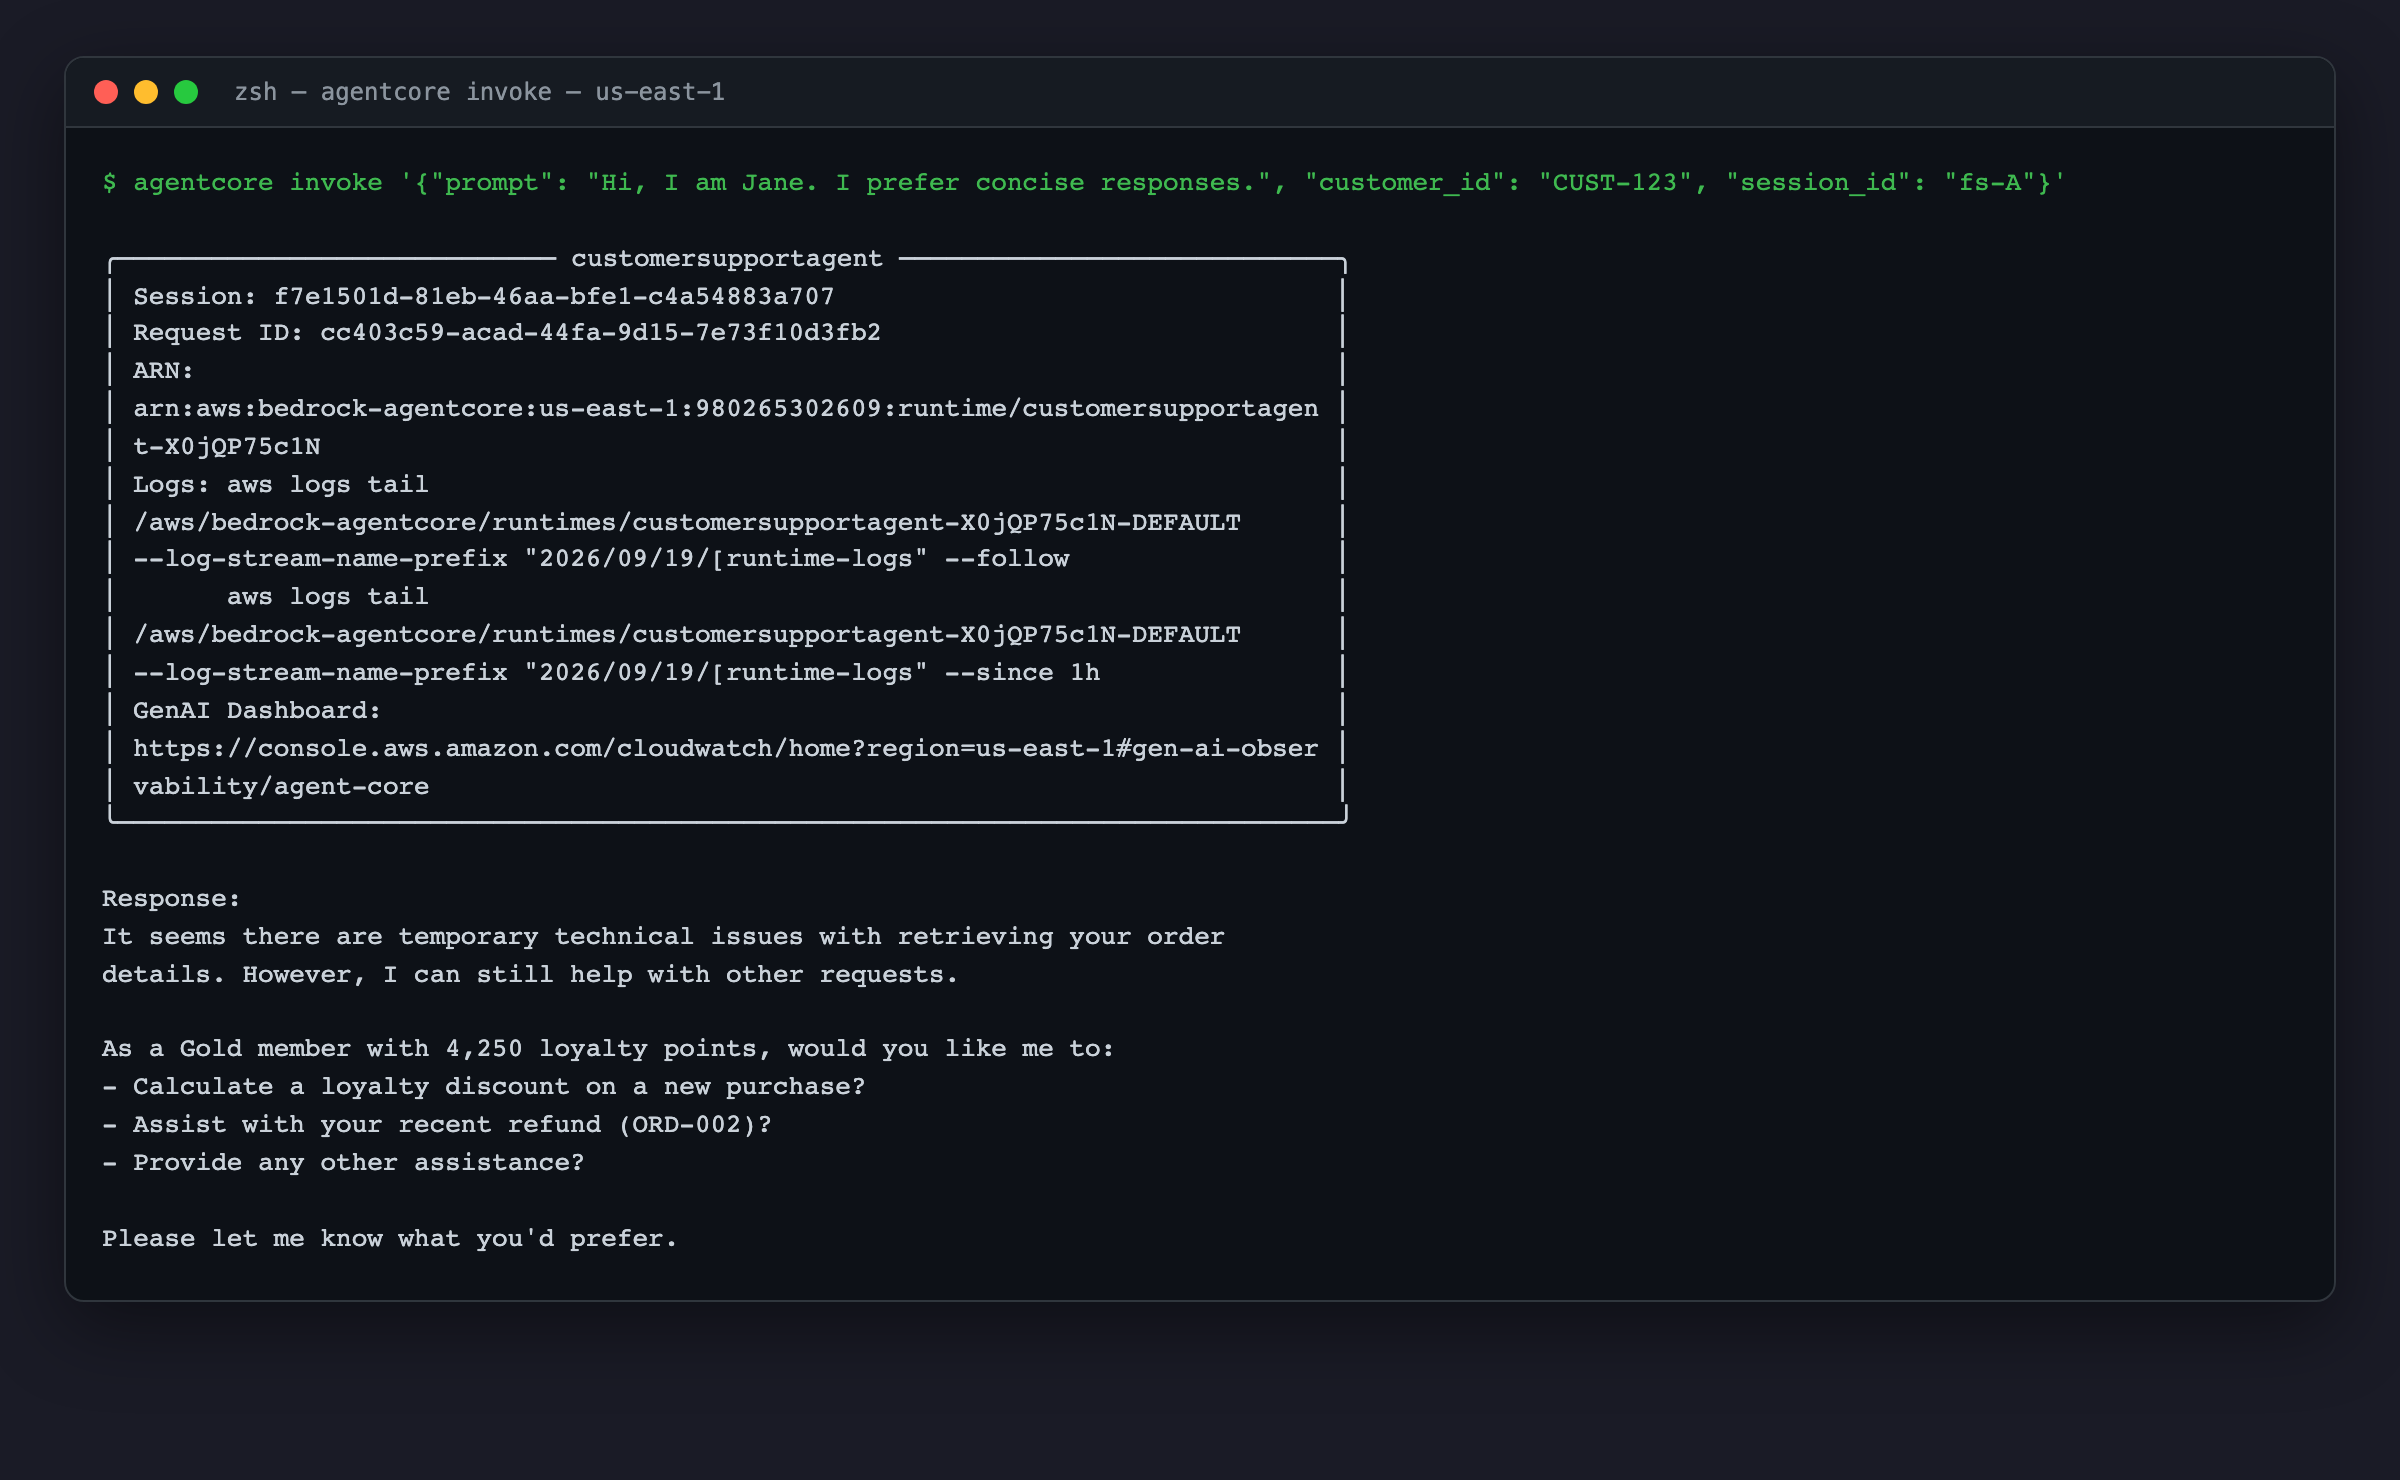
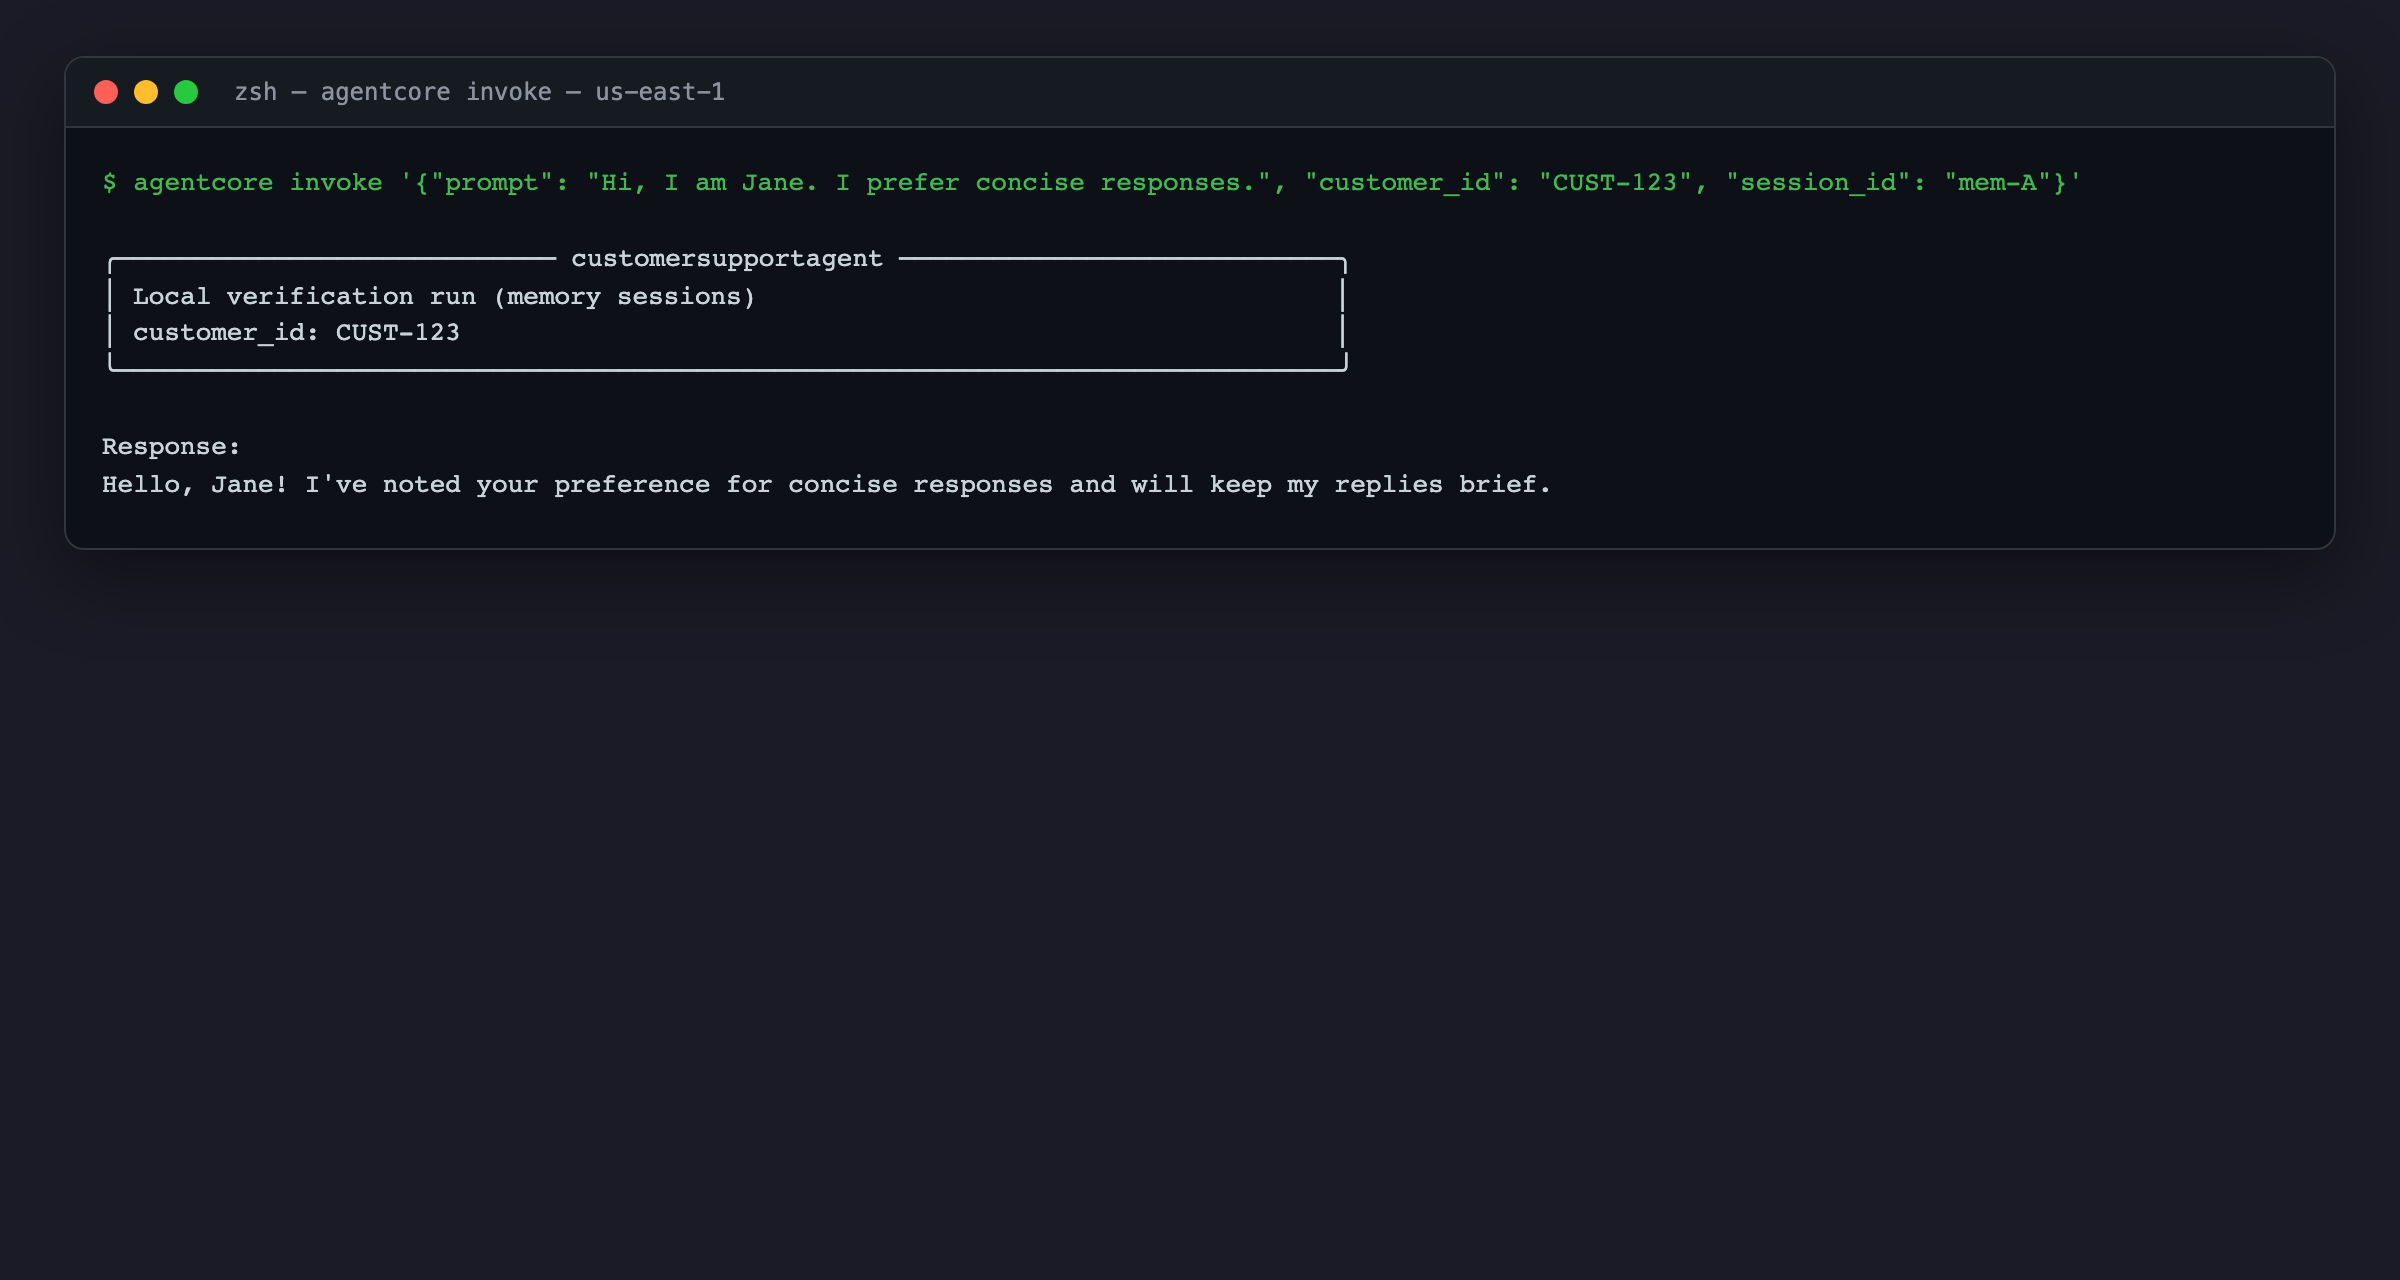
Address review: Gateway error handling, KB guard, memory screenshots.

Changed region(s): [[0.0312, 0.0312, 0.8438, 0.5625], [0.0312, 0.5938, 0.5, 0.8438], [0.5312, 0.1875, 0.5625, 0.2188]]

diff --git a/starter/main.py b/starter/main.py
@@ -37,8 +37,9 @@ from bedrock_agentcore.tools.code_interpreter_client import code_session
 from strands_tools.browser import AgentCoreBrowser
 
 
-logging.basicConfig(level=logging.WARNING)
+logging.basicConfig(level=logging.INFO)
 logger = logging.getLogger("CSAI_Agent")
+logger.setLevel(logging.INFO)
 
 # ── TODO 1 — App Initialisation ───────────────────────────────────────────────
 # Create a BedrockAgentCoreApp instance.
@@ -102,11 +103,16 @@ def get_namespaces(mem_client: MemoryClient, memory_id: str) -> Dict:
     """Return a dict mapping strategy type → namespace template string."""
     try:
         strategies = mem_client.get_memory_strategies(memory_id)
-        return {
-            strategy["type"]: strategy["namespaces"][0]
-            for strategy in strategies
-            if strategy.get("namespaces")
-        }
+        namespaces: Dict[str, str] = {}
+        for strategy in strategies:
+            templates = (
+                strategy.get("namespaceTemplates")
+                or strategy.get("namespaces")
+                or []
+            )
+            if templates:
+                namespaces[strategy["type"]] = templates[0]
+        return namespaces
     except Exception as exc:
         # Fall back to the project namespaces if the runtime role cannot
         # call GetMemory (common in locked-down lab accounts).
@@ -304,8 +310,11 @@ def search_knowledge_base(query: str) -> str:
     Returns:
         Relevant information retrieved from the knowledge base
     """
-    if not KB_ID or KB_ID.startswith("<"):
-        return "Knowledge base not configured."
+    if not KB_ID or not KB_ID.strip() or KB_ID.startswith("<"):
+        return (
+            "Knowledge Base is not configured: KB_ID is empty or missing. "
+            "Please configure KB_ID before attempting a knowledge-base search."
+        )
 
     try:
         resp = _bedrock_runtime.retrieve(
@@ -509,10 +518,27 @@ async def invoke(payload, context=None):
             agent_core_browser.browser,
         ]
 
-        mcp_client = MCPClient(lambda: streamable_http_client(GATEWAY_URL))
-        with mcp_client:
-            gateway_tools = mcp_client.list_tools_sync()
-            tools.extend(gateway_tools)
+        gateway_client = MCPClient(lambda: streamable_http_client(GATEWAY_URL))
+        with gateway_client:
+            try:
+                gateway_tools = gateway_client.list_tools_sync()
+                tools.extend(gateway_tools)
+
+                logger.info(
+                    "Gateway connected successfully. Loaded %d tools.",
+                    len(gateway_tools),
+                )
+
+            except TimeoutError:
+                logger.exception("Gateway tool loading timed out")
+
+            except ConnectionError:
+                logger.exception("Gateway connection failed")
+
+            except Exception as exc:
+                logger.exception(
+                    "Gateway tool loading failed: %s", exc
+                )
 
             agent = Agent(
                 model=model,
@@ -532,7 +558,10 @@ async def invoke(payload, context=None):
 
     except Exception as exc:
         logger.exception("Agent invocation failed")
-        return f"Sorry, I ran into an error while handling your request: {exc}"
+        return (
+            "Sorry, I could not complete that request due to a temporary "
+            f"service issue. Please try again in a moment. ({type(exc).__name__})"
+        )
 
 
 # ── CLI entry point (do not modify) ──────────────────────────────────────────
